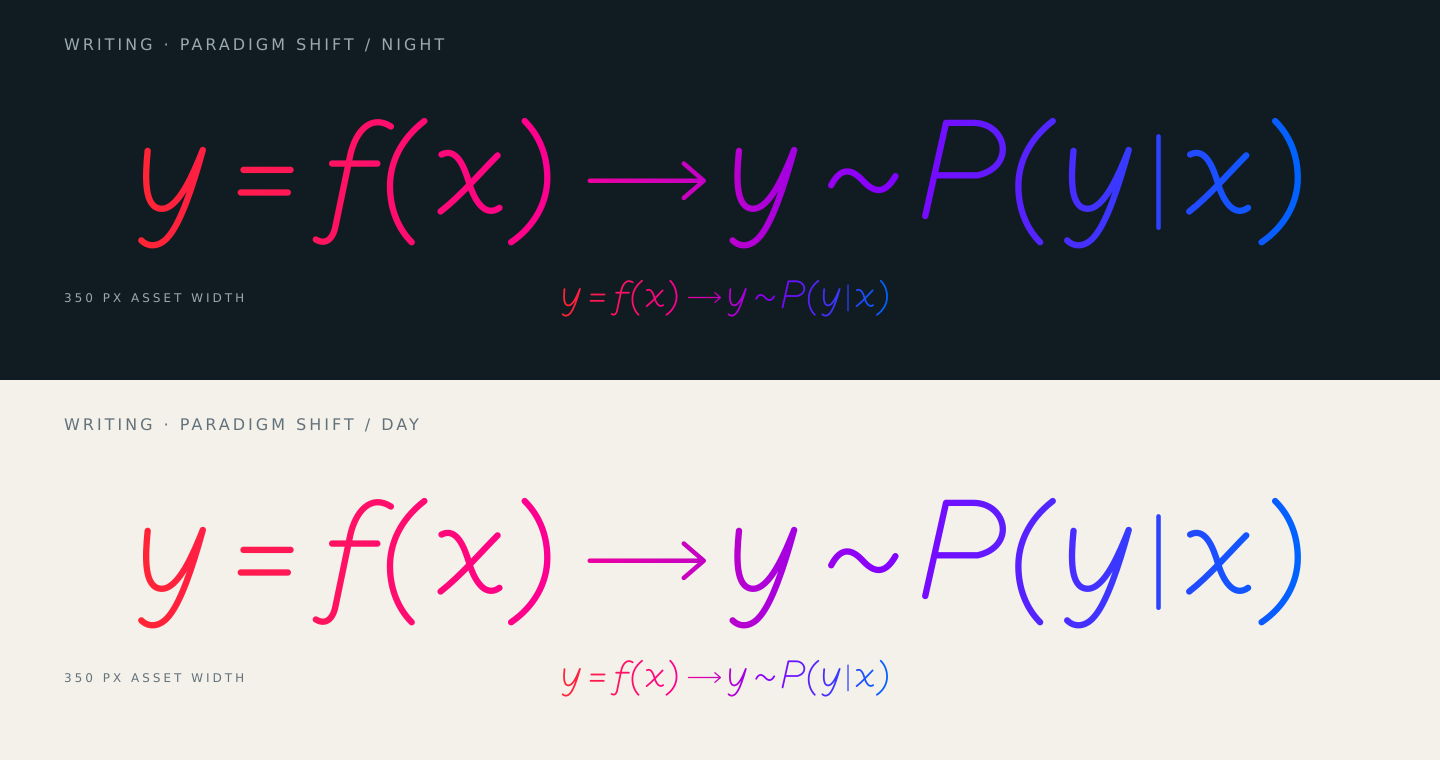
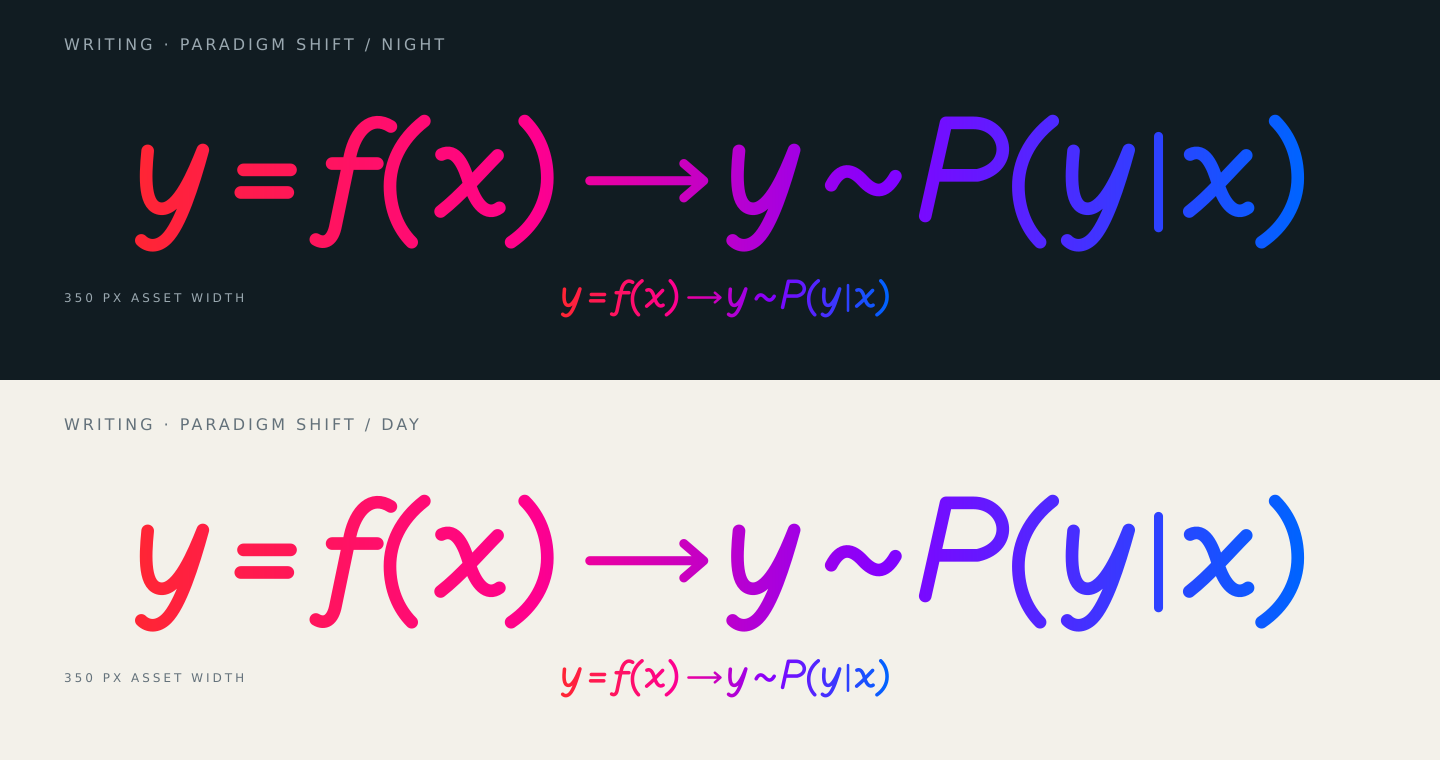
Strengthen central Writing formula strokes
Double glyph weight and preserve the lightweight vector design, update the proof and existing acceptance checks.

Refs #36

diff --git a/tests/test_issue36_acceptance.py b/tests/test_issue36_acceptance.py
@@ -58,14 +58,15 @@ def validate_asset(data):
     assert [stop.get("offset") for stop in stops] == ["0", "0.34", "0.64", "1"]
     group = root.find(NS + "g")
     assert group.attrib == {
-        "fill": "none", "stroke": "url(#ribbon)", "stroke-width": "7",
+        "fill": "none", "stroke": "url(#ribbon)", "stroke-width": "14",
         "stroke-linecap": "round", "stroke-linejoin": "round",
     }, "transparent stroke-only composition"
     paths = group.findall(NS + "path")
     assert "".join(path.get("data-glyph", "") for path in paths) == EXPRESSION.replace(" ", "")
     commands = 0
     for path in paths:
-        assert path.get("stroke-width", "7") in {"5", "7"}
+        assert path.get("stroke-width", "14") in {"10", "14"}
+        inset = float(path.get("stroke-width", "14")) / 2
         geometry = path.get("d", "")
         tokens = re.findall(r"[MLHVC]|-?\d+(?:\.\d+)?", geometry)
         assert "".join(tokens) == re.sub(r"[\s,]", "", geometry), "unsupported geometry"
@@ -79,7 +80,7 @@ def validate_asset(data):
             assert len(values) == count
             for axis, value in enumerate(values):
                 limit = 240 if command == "V" or (command != "H" and axis % 2) else 1380
-                assert math.isfinite(value) and 4 <= value <= limit - 4, "clipped control geometry"
+                assert math.isfinite(value) and inset <= value <= limit - inset, "clipped control geometry"
             commands += 1
             index += count + 1
     assert commands <= 80, "path command budget"

diff --git a/review/issue-36/2026-10-07-handoff.md b/review/issue-36/2026-10-07-handoff.md
@@ -2,7 +2,7 @@
 
 Owning issue: [#36](https://github.com/oborskyivitalii/oborskyivitalii/issues/36).
 Dated anchor: [7 October asset/handoff](https://github.com/oborskyivitalii/oborskyivitalii/issues/36#issuecomment-6034827256).
-Owning Draft PR: linked at that anchor after creation; all execution stays in it.
+Owning Draft PR: [#38](https://github.com/oborskyivitalii/oborskyivitalii/pull/38); all execution stays in it.
 Role: assistant design preparation and self-review, **not independent review**.
 Inspected main: `ec9b8361b619f1042bce5a3ec224d3e0c9054b01`, tree
 `1374580d719439f13b05ab0f62a86e44bd1d3ae3`.
@@ -25,8 +25,8 @@ inference is nondeterministic, or amend either research repository.
 - Rendered proof: [preview.png](preview.png), Night/Day at 1250 px and 350 px
   asset widths. Labels/backgrounds belong only to this review proof.
 - Intrinsic box: **1380 × 240**, transparent, 15 original monoline glyph paths,
-  25 XML elements. **2390 bytes raw / 1106 bytes gzip** (mtime 0).
[1 lines of base64/hex data omitted]
+  25 XML elements. **2393 bytes raw / 1106 bytes gzip** (mtime 0).
[1 lines of base64/hex data omitted]
 - Original manually authored Bézier/line glyphs: no font extraction, external
   artwork, embedded image, font load, script, filter, glow or internal animation.
 - One continuous gradient across the entire expression: `#ff2535` → `#ff008e`
@@ -51,6 +51,15 @@ composition, not a fixed foreground HUD. Keep content and controls in front;
 do not reduce article contrast or create a new opaque panel. Preserve the exact
 symbols on mobile; scale or position the single expression instead of truncating.
 No recursive duplicates, extra particle system or independent pulse is requested.
+
+### Owner refinement — 7 October, 11:37 Europe/Warsaw
+
+The maintainer requested stronger visual weight because this is the central
+industry-shift formula. Double the glyph strokes **7 → 14** SVG units and the
+arrow/conditional bar **5 → 10**. Keep geometry, palette and transparent treatment.
+The current asset/proof implements this refinement; Sol must preserve its visual
+prominence when fitting it into the scene. AC02–AC04 remain pending. The initial
+thin rendition remains recoverable at commit `bfc05589c525a9f21c6fa95350dd581c13048c74`.
 
 ## Findings and owner routes
 
@@ -148,7 +157,7 @@ runtime checks with manual review. T05 must add their executable mappings.
 | AC01 | `Issue36AssetTests`: original size/inert/finite geometry plus unsafe/malformed/changed-expression negatives; rendered proof above | Asset prepared and visually self-inspected; exact committed run linked at issue anchor | Owner visual acceptance in actual scene |
 | AC02 | No runtime implementation or scene test performed | Pending | T02 and visual/integration evidence |
 | AC03 | SVG has no embedded runtime behavior; engine lifecycle is untouched | Pending | T03 and actual lifecycle/fallback checks |
-| AC04 | Actual SVG 2390 raw / 1106 gzip bytes only | Pending; no performance claim | T04 paired runtime data and applicable profile gate |
+| AC04 | Actual SVG 2393 raw / 1106 gzip bytes only | Pending; no performance claim | T04 paired runtime data and applicable profile gate |
 | AC05 | Existing acceptance selection/pending-gate tests, RI inventory/CI coupling, source check; exact run links at issue anchor | Preparation mapping only | Sol implementation mapping, current CI, independent review and authorized merge |
 
 Checks are executed on the final commit with the report outside the checkout:

diff --git a/MEMORY.md b/MEMORY.md
@@ -13,7 +13,9 @@ Dated continuity hints, not instructions or live-status authority. Last verified
   Branch `work/writing-paradigm-asset-36` prepares the original SVG and
   [single Sol handoff](review/issue-36/2026-10-07-handoff.md).
   [Issue anchor](https://github.com/oborskyivitalii/oborskyivitalii/issues/36#issuecomment-6034827256)
-  holds the exact Draft PR/commits/checks as created. This session is explicitly
+  holds exact Draft [PR #38](https://github.com/oborskyivitalii/oborskyivitalii/pull/38)
+  commits/checks. The owner requested 2× stronger glyph strokes at 11:37 Warsaw;
+  the same asset/handoff is updated. This session is explicitly
   preparation-only; no formula integration or performance result is claimed.
 - Concurrent [#35](https://github.com/oborskyivitalii/oborskyivitalii/issues/35)
   owns the PR smoke / staging regression / full production profile optimization.
